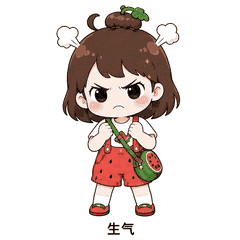
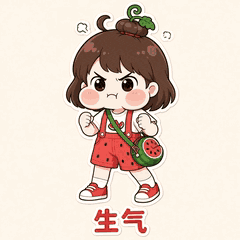
feat: redo 生气 sticker with stomping angry loop

Changed region(s): [[0.2333, 0.0, 0.7583, 0.9917]]

diff --git a/src/lib/packs.ts b/src/lib/packs.ts
@@ -290,11 +290,11 @@ export const PACKS: Pack[] = [
 ];
 
 export function stickerGif(packId: string, stickerId: string) {
-  return `/stickers/${packId}/${stickerId}.gif?v=85`;
+  return `/stickers/${packId}/${stickerId}.gif?v=86`;
 }
 
 export function stickerPng(packId: string, stickerId: string) {
-  return `/stickers/${packId}/${stickerId}.png?v=85`;
+  return `/stickers/${packId}/${stickerId}.png?v=86`;
 }
 
 export function getPack(id: string) {
